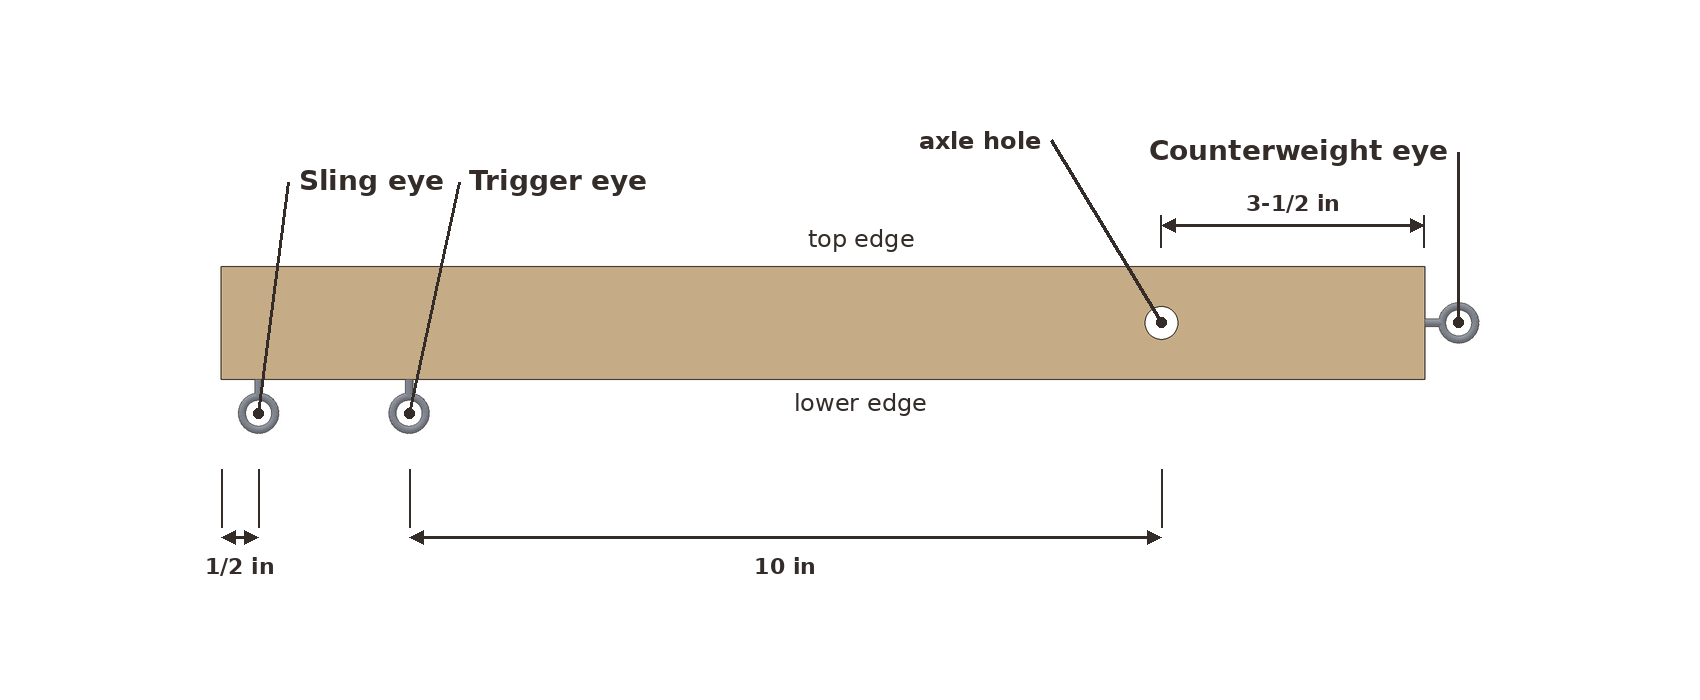
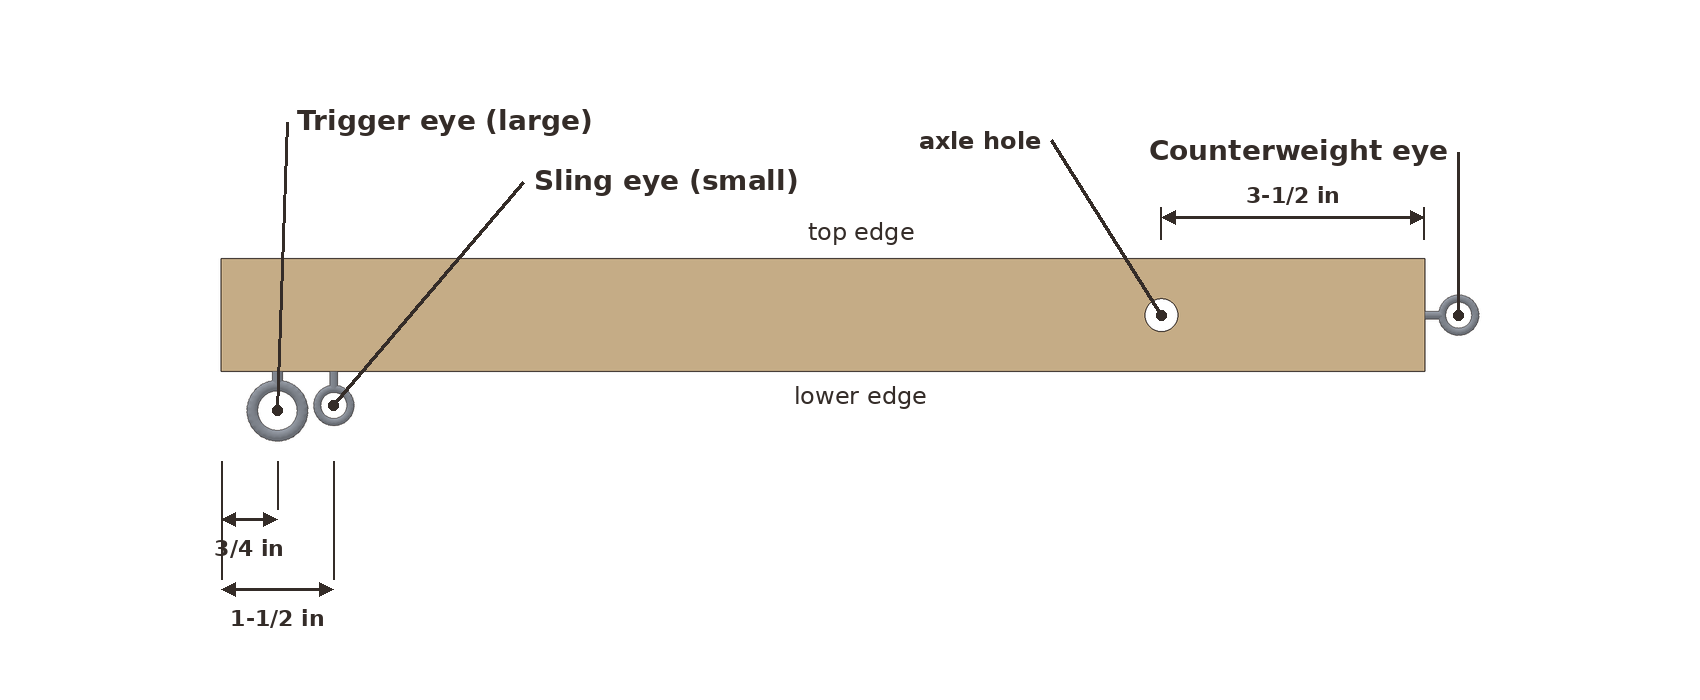
Add the 2x4 bridge and the redesigned trebuchet
The trebuchet trigger is now a 3/8 in pin and uses one dowel size.
Leonardo’s bridge is offered as a dowel tabletop model and a straight-cut
2x4 yard arch, with a link between the two.

diff --git a/src/site.css b/src/site.css
@@ -190,6 +190,7 @@ a:hover {
 
 .mission,
 .lede,
+.bridge-choice,
 .home h2,
 .page-prose h1,
 .page-prose h2,

diff --git a/build.py b/build.py
@@ -541,6 +541,17 @@ def render_project_body(project: dict, prefix: str) -> str:
     return body
 
 
+def bridge_choice(projects: list[dict]) -> str:
+    slugs = {project["slug"] for project in projects}
+    if "leonardo-bridge" not in slugs or "leonardo-bridge-2x4" not in slugs:
+        return ""
+    return (
+        '<p class="bridge-choice">Leonardo’s bridge comes two ways: '
+        'a <a href="projects/leonardo-bridge/">dowel model for the table</a>, '
+        'and a <a href="projects/leonardo-bridge-2x4/">2x4 arch for the yard</a>.</p>'
+    )
+
+
 def home_body(projects: list[dict]) -> str:
     cards = []
     for project in projects:
@@ -570,6 +581,7 @@ def home_body(projects: list[dict]) -> str:
         '<p class="lede">Wood projects for kids and families, inspired by Leonardo da Vinci, with a drawing for every step.</p>'
         '<p class="mission">The aim is to get kids outdoors, teach real building skills, and spend time building together.</p>'
         "<h2>Projects</h2>"
+        f"{bridge_choice(projects)}"
         f'<ul class="project-list">{"".join(cards)}</ul>'
         "</article>"
     )

diff --git a/projects/tabletop-trebuchet/PROJECT.md b/projects/tabletop-trebuchet/PROJECT.md
@@ -9,7 +9,7 @@
 
 Leonardo filled his notebooks with throwing machines: catapults, slings, and arms driven by springs and falling weights. He kept coming back to one question: how do you turn a slow, heavy push into a fast, light throw? The counterweight trebuchet was already centuries old by his time, and it answers that question very well. A heavy weight falls a short distance and swings a long arm, and a sling on the end of the arm whips around even faster.
 
-This version is a classroom-sized trebuchet in that spirit. It is not a copy of any one of Leonardo's drawings. The frame is 16 inches long and about a foot tall, made from 1x2 pine, a dowel axle and a few screw eyes. A small bottle of pennies is the counterweight. A felt pouch on two strings is the sling. To fire it, you pull a pin out of two screw eyes. It throws soft things only: a crumpled paper ball, a pom-pom, or a foam craft ball.
+This version is a classroom-sized trebuchet in that spirit. It is not a copy of any one of Leonardo's drawings. The frame is 16 inches long and about a foot tall, made from 1x2 pine, a dowel axle and a few screw eyes. A small bottle of pennies is the counterweight. A felt pouch on two strings is the sling, and it lies in a trough between the rails. To fire it, you pull a dowel pin out of the rails, which lets go of the arm. It throws soft things only: a crumpled paper ball, a pom-pom, or a foam craft ball.
 
 ![Finished and loaded](11-load.png)
 
@@ -33,17 +33,17 @@ This version is a classroom-sized trebuchet in that spirit. It is not a copy of 
 | | Item | Buy |
 |---|---|---|
 | | 1x2 pine (actual 3/4 × 1-1/2 in) | 2 boards, 8 ft (one is mostly spare) |
-| | 3/8 in hardwood dowel | 1, 36 in (you use 5 in) |
-| | 1/4 in hardwood dowel | 1, 36 in (you use 4 in) |
+| | 3/8 in hardwood dowel | 1, 36 in (you use 10 in: the axle and the trigger pin) |
 
 **Hardware**
 
 | Qty | Item | Used for |
 |---|---|---|
-| 2 | #8 × 2-1/2 in wood screws | uprights to rails |
+| 4 | #8 × 2-1/2 in wood screws | uprights to rails (2), feet to trough floor (2) |
 | 4 | #8 × 2 in wood screws | rails to feet |
-| 10 | #8 × 1-1/4 in wood screws | braces (8), trigger bar (2) |
-| 4 | small screw eyes with at least a 3/8 in opening | counterweight, sling, trigger on the arm, trigger on the bar |
+| 8 | #8 × 1-1/4 in wood screws | braces |
+| 2 | small screw eyes with at least a 3/8 in opening | counterweight, sling |
+| 1 | larger screw eye with about a 1/2 in inside opening (often sold as #208) | trigger. The 3/8 in pin has to pass through it with room to spare. |
 | 2 | flat washers for a 3/8 in bolt | axle stack |
 | 1 | 1-1/2 in S-hook | counterweight hanger |
 | 1 | 1-1/2 in finishing nail | sling release |
@@ -68,16 +68,16 @@ All from 1x2 pine unless noted. Cut every end square.
 | D | Brace | 4 | 7 in |
 | E | Arm | 1 | 16 in |
 | F | Spacer | 2 | 1-1/2 in |
-| G | Trigger bar | 1 | 4 in |
+| G | Trough floor | 1 | 13 in |
 | H | Axle (3/8 in dowel) | 1 | 5 in |
-| J | Trigger pin (1/4 in dowel) | 1 | 4 in |
+| J | Trigger pin (3/8 in dowel) | 1 | 5 in |
 
-The 1x2 adds up to 112-1/2 in. Board 1: both rails, the arm, both uprights, and two braces (80-1/2 in plus saw cuts). Board 2: the other two braces, both feet, the trigger bar, and both spacers (32 in). The rest is spare for practice cuts.
+The 1x2 adds up to 121-1/2 in. Board 1: both rails, the arm, both uprights, and two braces (80-1/2 in plus saw cuts). Board 2: the other two braces, both feet, the trough floor, and both spacers (41 in). The rest is spare for practice cuts. Both dowel pieces come from one 3/8 in dowel: 10 in plus two saw cuts, with about 25 in left over.
 
 ## Tools
 
 - Handsaw (a miter box helps keep cuts square)
-- Hand drill with 1/16, 1/8, 3/8, and 7/16 in bits
+- Hand drill with 1/16, 3/32, 1/8, 3/8, and 7/16 in bits
 - Screwdriver
 - Pliers (to bend the nail and turn the screw eyes)
 - Two clamps
@@ -86,25 +86,25 @@ The 1x2 adds up to 112-1/2 in. Board 1: both rails, the arm, both uprights, and 
 - Safety glasses
 - Scissors and a hole punch or nail (for the felt)
 
-Drill a 1/8 in pilot hole before every screw, and a 1/16 in pilot before every screw eye.
+Drill a 1/8 in pilot hole before every screw, a 1/16 in pilot before each small screw eye, and a 3/32 in pilot about 3/4 in deep for the large trigger eye.
 
 ---
 
 ## Assembly
 
-### 1. Drill the axle holes
-Drill a **7/16 in** hole through the arm, 3-1/2 in from one end. That end is now the counterweight end. Drill a **3/8 in** hole through each upright, 1 in from the top. Drill a **7/16 in** hole through the center of each spacer. Center every hole across the 1-1/2 in face and drill straight through the 3/4 in thickness.
+### 1. Drill the holes
+Drill a **7/16 in** hole through the arm, 3-1/2 in from one end. That end is now the counterweight end. Drill a **3/8 in** hole through each upright, 1 in from the top. Drill a **7/16 in** hole through the center of each spacer. Clamp the two rails together, edges and ends lined up, and drill a **7/16 in** hole through both, 2-1/4 in from one end. That end of each rail is now the back end. Center every hole across the 1-1/2 in face and drill straight through the 3/4 in thickness.
 
 `01-drill.png`
 
-**Look for:** The axle dowel is snug in the upright holes and loose in the arm and spacer holes. The arm should spin on the dowel with a flick. If you have no 7/16 bit, drill 3/8 and wiggle the bit until the arm spins freely.
+**Look for:** The axle dowel is snug in the upright holes and loose in the arm and spacer holes. The arm should spin on the dowel with a flick. A 3/8 in dowel slides through both rail holes at once when the rails are held together. If you have no 7/16 bit, drill 3/8 and wiggle the bit until the dowel slides freely.
 
 ### 2. Stand an upright on each rail
-Stand one upright on each rail, 10 in from the back end to the upright's center (a little forward of the middle), with the hole at the top. Drive a 2-1/2 in screw up through the bottom of the rail into the end of the upright. Use glue too if you have it.
+Stand one upright on each rail, 10 in from the back end (the end with the pin hole) to the upright's center, with the axle hole at the top. Drive a 2-1/2 in screw up through the bottom of the rail into the end of the upright. Use glue too if you have it.
 
 `02-side-frames.png`
 
-**Look for:** Two matching side frames, each shaped like an upside-down T. Both uprights are square to their rails and flush with the rails' faces. Lay the two frames face to face: their axle holes should line up.
+**Look for:** Two matching side frames, each shaped like an upside-down T. Both uprights are square to their rails and flush with the rails' faces. Lay the two frames face to face: their axle holes line up, and so do their pin holes.
 
 ### 3. Brace both sides
 On the outside face of each side frame, lay one brace behind the upright and one in front, each at 45 degrees. The top end sits on the upright about 4 in above the rail. The bottom end sits on the rail. Drive one 1-1/4 in screw through each end. The square ends overlap the edges a little, which is fine.
@@ -114,14 +114,14 @@ On the outside face of each side frame, lay one brace behind the upright and one
 **Look for:** Each side frame is now a stiff triangle that does not rack when you push the top of the upright. The braces are only on the outsides. The inside faces stay flat so the arm has room.
 
 ### 4. Screw three eyes into the arm
-Pick one narrow edge of the arm as the **lower edge**. Screw one eye into it 1/2 in from the throwing tip (the **sling eye**). Screw a second eye into the same edge 10 in from the axle hole (the **trigger eye**). Screw the third eye into the end grain of the short end (the **counterweight eye**). Turn each eye so its ring lines up with the length of the arm, the way it does in the drawing.
+Pick one narrow edge of the arm as the **lower edge**. Screw the large eye into it 3/4 in from the throwing tip (the **trigger eye**). Drill its 3/32 in pilot first, centered across the edge, so the thin arm does not split. Screw a small eye into the same edge 1-1/2 in from the tip (the **sling eye**). Screw the other small eye into the end grain of the short end (the **counterweight eye**). Turn each eye so its ring lines up with the length of the arm, the way it does in the drawing.
 
 `04-arm-eyes.png`
 
-**Look for:** Both edge eyes are on the same edge, and the ring openings face sideways, so you can see through them from the side of the arm.
+**Look for:** Both edge eyes are on the same edge, with the large one nearer the tip. The ring openings face sideways, so you can see through them from the side of the arm.
 
 ### 5. Drive and bend the release nail
-Drive the finishing nail straight into the end grain of the throwing tip, centered, leaving about 1 in sticking out. Bend the last 3/4 in about 30 degrees toward the **top edge**, away from the eyes.
+Drive the finishing nail straight into the end grain of the throwing tip, centered, leaving about 1 in sticking out. That puts it 1/2 in into the wood, which keeps it clear of the trigger eye's screw. Bend the last 3/4 in about 30 degrees toward the **top edge**, away from the eyes.
 
 `05-release-nail.png`
 
@@ -134,47 +134,47 @@ Stand the two side frames up, braces facing out, with their uprights across from
 
 **Look for:** The order in the front view is upright, washer, spacer, arm, spacer, washer, upright. The gap between the uprights is 2-1/2 in. The arm swings all the way around without touching either upright.
 
-### 7. Screw on the feet
-Set the frame on the two feet, one under each end of the rails. The feet stick out 3/4 in past each rail. Drive one 2 in screw down through the top of each rail into each foot.
+### 7. Build the base and set the frame on it
+Lay the two feet on the table 13 in apart and set the trough floor flat between them, centered on each foot's length. Drill a 1/8 in pilot through the middle of each foot's outside face into the end of the floor, and drive a 2-1/2 in screw through each one. Then set the frame on the feet, one foot under each end of the rails, with the floor between the rails. The feet stick out 3/4 in past each rail. Drive one 2 in screw down through the top of each rail into each foot.
 
-`07-feet.png`
+`07-base.png` · `07-feet.png`
 
-**Look for:** The rails are parallel, the feet are square to them, and the machine sits flat without rocking. Give the arm a spin. If it rubs, loosen a foot, nudge the side frame, and screw it down again.
+**Look for:** The tops of the feet and the floor are flush, so there is no step between them. The floor sits in the middle of the gap between the rails. The machine sits flat without rocking. Give the arm a spin. If it rubs, loosen a foot, nudge the side frame, and screw it down again.
 
-### 8. Fit the trigger bar and pin
-Lay the trigger bar flat across the rails near the back, about 2-3/4 in from the back ends of the rails to its center. Pull the long end of the arm down until the arm's trigger eye sits about 1/2 in above the bar. Slide the bar until it is right under that eye. Screw it to both rails with 1-1/4 in screws. Screw the last eye into the top of the bar, just beside where the arm's eye comes down, so the two rings sit side by side. Tie a 3 ft pull cord to one end of the 1/4 in dowel and slide the dowel through both rings.
+### 8. Pin the arm
+Tie the 3 ft pull cord around the trigger pin about 1/4 in from one end with a clove hitch. Pick the side you will pull from. Pull the long end of the arm down until the trigger eye drops between the rails, just below the pin holes. From your pulling side, push the pin through the near rail, through the trigger eye's ring, and into the far rail, until about 1/4 in sticks out the far side. Let the arm come up until the ring rests on the pin.
 
-`08-trigger-bar.png` · `08-trigger-bar-side.png`
+`08-trigger-pin.png` · `08-trigger-pin-side.png` · `08-pin-close.png`
 
-**Look for:** With the pin in, the arm stays down at a slant on its own, its tip just above the back of the rails. The pin slides out with an easy tug on the cord. If the rings don't line up, turn the bar's eye a little deeper or shallower until the pin goes straight through both.
+**Look for:** The arm stays down on its own at a slant, its tip about 2 in above the table near the back of the rails. Nothing sits on top of the rails or across the floor. The cord and the knot hang outside the near rail. The pin slides out with an easy tug. If the pin won't go through the ring, turn the trigger eye half a turn in or out and try again.
 
 ### 9. Hang the counterweight
 With the arm pinned, fill the bottle with pennies or washers and close the lid. Tie a short string loop tightly around the bottle's neck under the cap. Hook the S-hook through the counterweight eye, then hang the loop on the S-hook. The top of the bottle should hang about 2-1/2 in below the eye.
 
 `09-counterweight.png` · `09-counterweight-side.png`
 
-**Look for:** The bottle hangs straight down in front of the uprights. There is at least a finger's width between the bottle and the underside of the arm. The bottle fits between the side frames with room on both sides. Hang it shorter if it would touch the arm, and narrower if it would touch the uprights.
+**Look for:** The bottle hangs straight down in front of the uprights. There is at least 3/8 in between the bottle and the underside of the arm. The bottle fits between the side frames with room on both sides. Hang it shorter if it would touch the arm, and narrower if it would touch the uprights.
 
 ### 10. Tie on the sling
-Punch a hole near each short end of the felt. Tie a 12 in string to each hole. Tie the first string to the sling eye so the cord is 9 in from eye to felt. Tie a small loop, about 1/2 in across, in the end of the second string, also 9 in from the felt. Slip that loop over the release nail. Lay the pouch on the table between the rails, under the arm, with both strings straight.
+Punch a hole near each short end of the felt. Tie a 12 in string to each hole. Tie the first string to the sling eye so the cord is 9 in from eye to felt. Tie a small loop, about 1/2 in across, in the end of the second string, also 9 in from the felt. Slip that loop over the release nail. Lay the pouch on the trough floor, just in front of the uprights, with both strings straight. The string from the nail lies over the top of the pin, beside the trigger eye.
 
 `10-sling.png`
 
-**Look for:** Both strings are the same length. The pouch lies flat between the rails under the axle, and the loop sits loosely on the nail. If the strings cross over the trigger bar, re-lay them under it.
+**Look for:** Both strings are the same length. The pouch lies flat on the floor between the rails, and the loop sits loosely on the nail. Neither string goes under the pin or through the trigger eye.
 
 ### 11. Load
 Put one paper ball, about 1-1/2 in across, in the middle of the pouch. Fold the felt up around it and lay the strings straight back to the tip.
 
 `11-load.png`
 
-**Look for:** The ball sits in the pouch with the felt cupped around it, and nothing is caught on the trigger bar, the feet, or the rails. Everyone is behind the firing line, and the lane in front is empty.
+**Look for:** The ball sits in the pouch with the felt cupped around it, and nothing is caught on the pin, the trigger eye, or the rails. Everyone is behind the firing line, and the lane in front is empty.
 
 ### 12. Fire
 From beside and behind the trebuchet, pull the cord sharply sideways.
 
 `12-fire-side.png` · `12-firing-zone.png`
 
-**Look for:** The counterweight drops, the arm swings up and over the top, and the sling whips around past the tip. Near the top of the swing, the loop slides off the nail and the ball flies forward. Then the arm rocks back and forth and settles with the long end up. To fire again, pull the long end down (the counterweight rises), slide the pin back through both eyes, and reload.
+**Look for:** The counterweight drops, the arm swings up and over the top, and the sling whips around past the tip. Near the top of the swing, the loop slides off the nail and the ball flies forward. Then the arm rocks back and forth and settles with the long end up. To fire again, pull the long end down (the counterweight rises), slide the pin back through the near rail, the trigger eye, and the far rail, and reload.
 
 If the ball goes straight up or flies backward, the sling let go too early: bend the nail a little more. If it slams into the ground in front, it let go too late: bend the nail a little less.
 
@@ -187,6 +187,8 @@ If the ball goes straight up or flies backward, the sling let go too early: bend
 **The arm is a lever.** The counterweight hangs about 4 in from the axle and the tip is 12-1/2 in away, roughly 1 to 3. While the weight falls a little, the tip travels about three times as far in the same moment, so it moves about three times as fast.
 
 **The sling makes the arm longer without making it heavier.** The string and pouch trail behind the tip and then whip around it, like cracking a towel. The ball ends up moving faster than the tip itself. The bent nail decides when the sling lets go: the loop slides off once the sling has swung far enough around to pull straight along the nail.
+
+**The trough gives the pouch a clear road.** For the first part of the throw, the pouch slides backward along the floor between the rails, then lifts out over the open back end. Nothing crosses over it, and the floor is flush with the feet, so there is no ledge to catch on. The pin that held the arm is already out of the way before the pouch starts moving.
 
 ---
 

diff --git a/projects/leonardo-bridge-2x4/PROJECT.md b/projects/leonardo-bridge-2x4/PROJECT.md
@@ -1,0 +1,171 @@
+# Leonardo’s Bridge, 2x4 Version
+
+*A backyard arch made from 15 straight-cut 2x4s. No notches, no dowels, no hardware.*
+
+**Ages:** 10 and up, with two builders
+**Time to build:** About 45 minutes to cut and mark, then 30 to 45 minutes to assemble the first time
+**Difficulty:** 2 out of 5
+**Skills:** measuring, marking square lines, straight crosscuts, and following a repeating pattern
+
+This is the same 10-and-5 weave as the dowel bridge, scaled up for the yard. Every cut is a plain square crosscut, so a handsaw, circular saw, or miter saw is all you need. Flat boards don't roll like round dowels, so the notches aren't needed. Pencil lines show where each board rests, and friction between the rough faces holds the joints.
+
+The tabletop option, cut from dowels, is [Leonardo’s Self-Supporting Bridge](../leonardo-bridge/).
+
+The finished arch is about 8 feet between the feet, 3 feet tall, and a little over 3 feet wide. It weighs about 70 pounds. It is a build-it, look-at-it, take-it-apart project. It is not for walking, standing, sitting, or climbing on.
+
+![Finished bridge](09-finished-3q.png)
+
+---
+
+## Safety
+
+- Wear eye protection when cutting, and gloves when carrying the boards.
+- Sand the cut ends so there are no splinters.
+- A 2x4 this long weighs about 4-1/2 pounds. Lift rails and slide beams with two people, and keep feet out from under the boards.
+- Keep fingers out of the gap when you lower a lifted rail.
+- Do not walk, stand, sit, or climb on this bridge, and do not test it with anyone’s weight.
+
+---
+
+## Parts
+
+All 15 pieces are the same lumber: standard 2x4 (actual size 1-1/2 by 3-1/2 inches), each cut to 46 inches. Buy 8 boards, 8 feet long, or 8 precut 92-5/8 inch studs. Each board gives two pieces, and you end up with one spare. Pick straight, dry, unfinished boards. Rough, dry wood grips better than painted, sealed, or wet wood.
+
+- 10 × Beam A, with pencil marks
+- 5 × Beam B, left plain
+
+![Parts](01-parts.png)
+`01-parts.png`
+
+## Cut list
+
+| Part | Qty | Length | Stock |
+|---|---|---|---|
+| Beam A | 10 | 46 in | 2x4 |
+| Beam B | 5 | 46 in | 2x4 |
+
+Cut all 15 pieces to 46 inches with square ends, and sand the ends. Set 5 aside as Beam B.
+
+Mark each Beam A on its two wide faces. On face 1, draw a line square across the board 6 inches from each end. Flip the board over. On face 2, draw two lines 3-1/2 inches apart, centered on the board: one at 21-1/4 inches and one at 24-3/4 inches from an end. This makes a box exactly as wide as a 2x4. Carry every line around onto both narrow edges with the square, so you can see it from the side during assembly. Write "1" on face 1 so you can tell the faces apart.
+
+![Marks on Beam A](00-marks.png)
+`00-marks.png`
+
+**Look for:** Every Beam A has two end lines on face 1 and a centered 3-1/2 inch box on face 2, all carried onto the edges. The 5 Beam B pieces have no marks.
+
+## Tools
+
+Tape measure, pencil, speed square or combination square, a saw for straight crosscuts (handsaw, circular saw, or miter saw), sandpaper, safety glasses, and work gloves. A pair of sawhorses makes cutting easier.
+
+## The repeating rule
+
+Every Beam A lies face 1 down. Each end rests on a rail, with the rail's inner edge right on that end's 6 inch line. The rail sits on the end side of the line. A rail lies flat across the middle of the beam, inside the centre box.
+
+![One joint, side view](02a-joint.png)
+`02a-joint.png`
+
+---
+
+## Assembly
+
+Work on flat, level ground. Grass, dirt, or a patio all work. Keep new pieces snug against the ones already in place, and line up the marks each time you set a piece down. The weave tilts as you build. One end stays on the ground and the other end rises; that is normal. Later overhead views make the newer beams look shorter because they tilt as the arch rises. All 15 pieces are the same length.
+
+### 1. Sort the parts
+
+Make two piles: 10 Beam A and 5 Beam B, as in the parts layout above.
+
+`01-parts.png`
+
+**Look for:** Two piles, and every Beam A with its "1" on the face that will go down.
+
+### 2. Build the first lock
+
+Lay two Beam B pieces flat on the ground as rails, about 18 inches apart, running toward and away from you. Lay two Beam A pieces across them, face 1 down, about 20 inches apart, so they form a hash sign. Each Beam A goes under the left rail and over the right rail. The left rail lies flat inside its centre box, and the right rail's inner edge sits on its right-hand 6 inch line. Most of each A sticks out to the left.
+
+![First lock](02-first-lock.png)
+`02-first-lock.png`
+
+**Look for:** A hash of four pieces. The left rail sits inside both centre boxes, and the right rail's inner edge sits on both right-hand end lines.
+
+### 3. Add the next pair of Beam A, to the inside
+
+Lift the right rail. Slide two more Beam A pieces in, face 1 down, just inside the first pair, about 12 inches apart. Each new beam goes over the left rail and under the lifted right rail. The left rail's inner edge goes on its left end line. Lower the right rail into its centre box. These two stick out to the right.
+
+![Inside pair](03-inside-pair.png)
+`03-inside-pair.png`
+
+**Look for:** Six pieces in a tighter weave. The newest beams are closer to the middle than the first pair, and they stick out the other way.
+
+### 4. Slide a Beam B under the new ends
+
+Slide one Beam B under the right-hand ends of the pair you just added. Its inner edge goes on their right-hand end lines. It goes to the right of the other rails, not between them.
+
+![Beam B under the new ends](04-beam-b-under.png)
+`04-beam-b-under.png`
+
+**Look for:** Three plain beams running the same direction. The newest one is out on the right, under the ends that were sticking out.
+
+### 5. Add another inside pair of Beam A
+
+Lift the rightmost rail. Add two Beam A pieces inside the last pair, about 4 inches apart: over the middle rail, under the lifted one. Line up the end line and the centre box as before.
+
+![Second inside pair](05-inside-pair-2.png)
+`05-inside-pair-2.png`
+
+**Look for:** The same weave, one bay longer, with the newest pair in the middle.
+
+### 6. Slide another Beam B under the new ends
+
+Same as step 4: slide a Beam B under the right-hand ends of the pair you just added, with its inner edge on their end lines.
+
+![Fourth Beam B](06-beam-b-under-2.png)
+`06-beam-b-under-2.png`
+
+**Look for:** Four plain beams in the stack, the newest one again out on the right.
+
+### 7. Add a pair of Beam A to the outside
+
+Lift the rightmost rail. Add two Beam A pieces outside all the others, about 28 inches apart: over the second-from-right rail, under the lifted one. The weave starts to rise.
+
+![Outside pair](07-outside-pair.png)
+`07-outside-pair.png`
+![Outside pair, side view](07-outside-pair-side.png)
+`07-outside-pair-side.png`
+
+**Look for:** The newest pair sitting outside the earlier ones, with about 1/2 inch of air between neighbouring beams. If the new beams bump into pieces already in place, they went inside instead of outside.
+
+### 8. Slide in the last Beam B
+
+Slide the fifth and last plain beam under the right-hand ends of the outside pair, with its inner edge on their end lines.
+
+![Last Beam B](08-last-beam-b.png)
+`08-last-beam-b.png`
+![Last Beam B, side view](08-last-beam-b-side.png)
+`08-last-beam-b-side.png`
+
+**Look for:** All 5 Beam B pieces are in. Only two Beam A pieces are left in the pile.
+
+### 9. Lock the ends
+
+Lift the last rail. Add the final two Beam A pieces outside the last pair, about 36 inches apart: over the fourth rail, under the fifth. With one person at each end, ease the weave over until both outside pairs stand on the ground, then let go.
+
+![Lock the ends, overhead](09a-lock-ends-overhead.png)
+`09a-lock-ends-overhead.png`
+![Finished bridge, 3/4 view](09-finished-3q.png)
+`09-finished-3q.png`
+![Finished bridge, side view](09-finished-side.png)
+`09-finished-side.png`
+![Finished bridge, side and 3/4](09-finished.png)
+`09-finished.png`
+
+**Look for:** An arch that stays up when you let go, with about 8 feet between the feet and the top rail about 3 feet up. Every rail edge should sit on its end line, and every rail across a middle should sit inside the box. If a joint creeps, push the pieces back to the marks. The usual cause is a beam that went over when it should have gone under, or a rail that slid off its line.
+
+## Why it works
+
+This is a reciprocal structure. Each beam is both holding and being held, so there is no single keystone to pop out. Every beam rests on two rails near its ends and carries a third rail on its middle. Because a rail is 1-1/2 inches thick, each pair tilts about 22 degrees from the one before it, and five pairs step around into an arch.
+
+The dowel version needs notches to stop round wood from rolling. A flat 2x4 can't roll, and its rough face grips the board it rests on. We checked the finished arch with a computer model of the boards and their contacts. The joints need a friction coefficient of about 0.22 to hold under the bridge's own weight. Dry, unfinished lumber is usually about 0.4 to 0.6, so there is roughly twice the grip the model asks for. That margin is an untested estimate, so treat it as a reason to try it, not a promise. The pencil marks matter. They put every contact in the place the model checked.
+
+## Try this next
+
+Time yourselves on the rebuild; the second time is much faster. Set a light, soft load such as a 25 pound bag of mulch on the top rail and watch the joints. The model says that load needs no more friction than the empty bridge (untested estimate), and the bridge is still not for people. To put it away, take it apart in reverse order and keep the boards dry so they stay rough and straight.

diff --git a/projects/leonardo-bridge/PROJECT.md b/projects/leonardo-bridge/PROJECT.md
@@ -11,6 +11,8 @@ Leonardo da Vinci sketched this as a portable military bridge: something soldier
 
 This version is a tabletop or picnic-table model. It is not for walking or standing on.
 
+The backyard option, cut from straight 2x4s, is [Leonardo’s Bridge, 2x4 Version](../leonardo-bridge-2x4/).
+
 ![Finished bridge](09-finished-3q.png)
 
 ---
